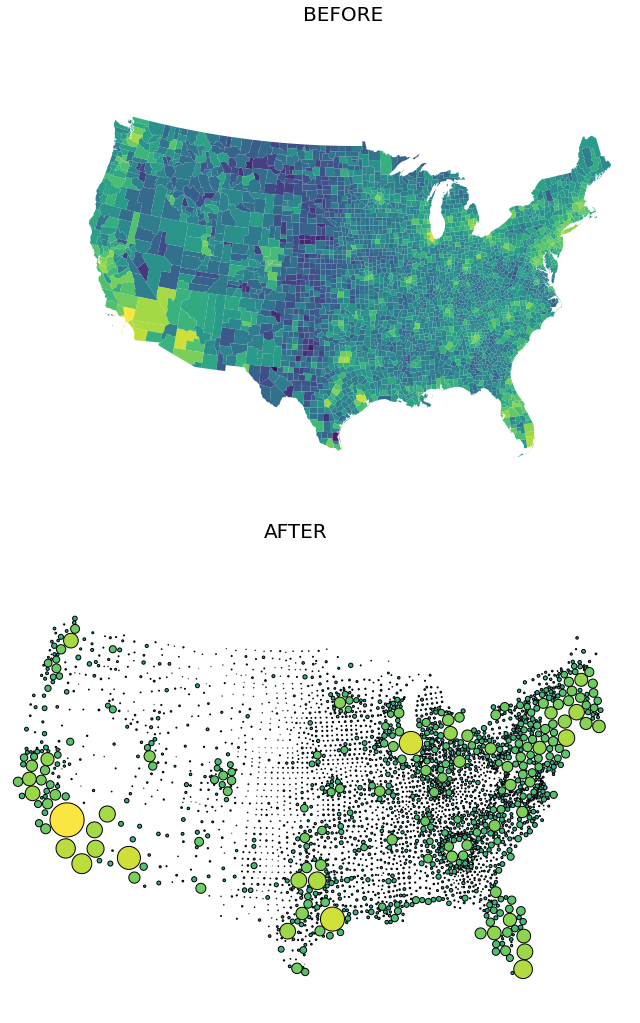
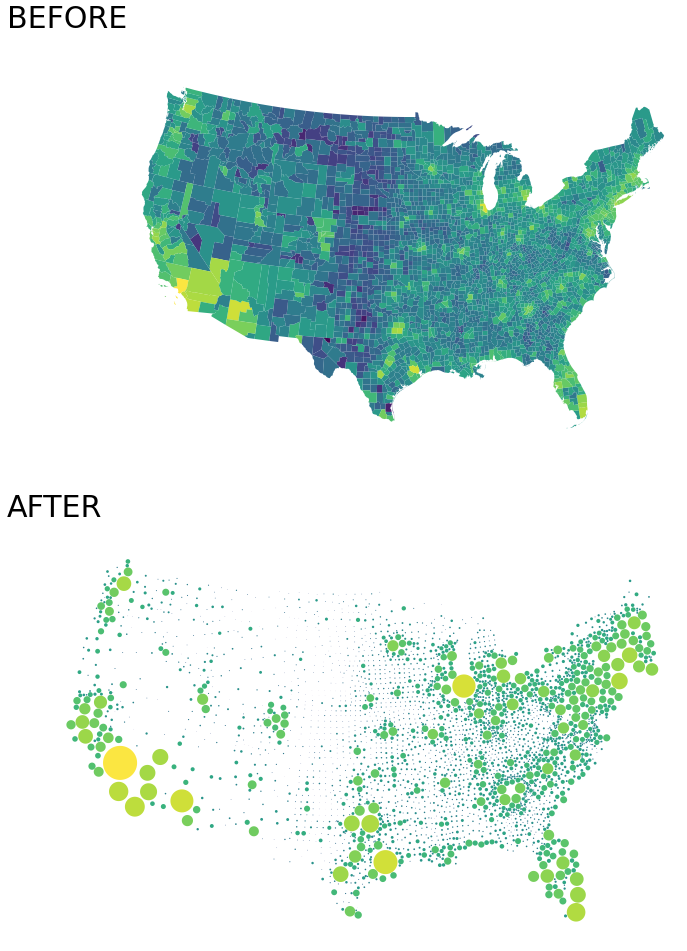
PyPi Documentation

diff --git a/setup.py b/setup.py
@@ -1,4 +1,9 @@
 from setuptools import setup
+from os import path
+
+this_dir = path.abspath(path.dirname(__file__))
+with open(path.join(this_dir, 'README.md'), encoding='utf-8') as f:
+    long_description = f.read()
 setup(
     name = 'mapscaler',
     packages = ['mapscaler'],
@@ -6,6 +11,8 @@ setup(
     version = '0.0.3',
     license='gpl-3.0',
     description = 'Scale areas of a geopandas map by any property to create more intuitive and beautiful choropleth visualizations.',
+    long_description = long_description,
+    long_description_content = 'text/markdown',
     author = 'Greg Condit',
     author_email = 'conditg@gmail.com',
     url = 'https://github.com/user/conditg/mapscaler',

diff --git a/docs/shapescaler.rst b/docs/shapescaler.rst
@@ -40,23 +40,22 @@ Now, let's visualize the output, ``scaled_df``:
 
     import matplotlib.pyplot as plt
     import geoplot as gplt
-    import geoplot.crs as gcrs
     import numpy as np
     
     gplt.choropleth(
         df, hue=[np.log(x) for x in df.EST_POP_2019],
-        projection=gcrs.AlbersEqualArea(),
+        projection=gplt.crs.AlbersEqualArea(), cmap='viridis',
         figsize=(15,8),
     )
-    plt.suptitle('BEFORE', fontsize=20, ha='center')
+    plt.title('BEFORE', fontsize=30, loc='left')
     plt.show()      
 
     gplt.choropleth(
         scaled_df, hue=[np.log(x) for x in df.EST_POP_2019],
-        projection=gcrs.AlbersEqualArea(),
+        projection=gplt.crs.AlbersEqualArea(), cmap='viridis',
         figsize=(15,8),
     )
-    plt.suptitle('AFTER', fontsize=20, ha='center')
+    plt.title('AFTER', fontsize=30, loc='left')
     plt.show()
 
 

diff --git a/docs/bubbler.rst b/docs/bubbler.rst
@@ -42,22 +42,21 @@ Now, let's visualize the output ``bubble_df``:
 
     import matplotlib.pyplot as plt
     import geoplot as gplt
-    import geoplot.crs as gcrs
     import numpy as np
 
     gplt.choropleth(
         df, hue=[np.log(x) for x in df.EST_POP_2019],
-        projection=gcrs.AlbersEqualArea(),
+        projection=gplt.crs.AlbersEqualArea(), cmap='viridis',
         figsize=(15,8),
     )
-    plt.suptitle('BEFORE', fontsize=20, ha='center')
+    plt.title('BEFORE', fontsize=30, loc='left')
     plt.show()      
 
     gplt.choropleth(
         bubble_df, hue=[np.log(x) for x in df.EST_POP_2019],
-        figsize=(15,8),
+        figsize=(15,8), linewidth=0, cmap='viridis',
     )
-    plt.suptitle('AFTER', fontsize=20, ha='center')
+    plt.title('AFTER', fontsize=30, loc='left')
     plt.show()
 
 

diff --git a/docs/loader.rst b/docs/loader.rst
@@ -18,7 +18,6 @@ That's it! You now have a map of the counties.
 
     import matplotlib.pyplot as plt
     import geoplot as gplt
-    import geoplot.crs as gcrs
 
     #Reduce to the lower 48 for an easier demonstration
     df = df[df.STATE_FIPS != '02'] # remove AK
@@ -27,10 +26,10 @@ That's it! You now have a map of the counties.
     
     gplt.polyplot(
         df, 
-        projection=gcrs.AlbersEqualArea(),
+        projection=gplt.crs.AlbersEqualArea(),
         figsize=(15,8),
         )
-    plt.suptitle('Continguous United States', fontsize=20, ha='center')
+    plt.suptitle('Contiguous United States', fontsize=20, ha='center')
     plt.show()
 
 .. image:: ../images/counties.png

diff --git a/README.md b/README.md
@@ -1,5 +1,5 @@
 # MapScaler
-![Example visualization](/images/header.png)
+![Example visualization](https://raw.githubusercontent.com/conditg/mapscaler/master/images/header.png)
 
 Scale areas of a geopandas map by any property (such as population) - without the shapes overlapping - to create more intuitive and beautiful choropleth visualizations.
 
